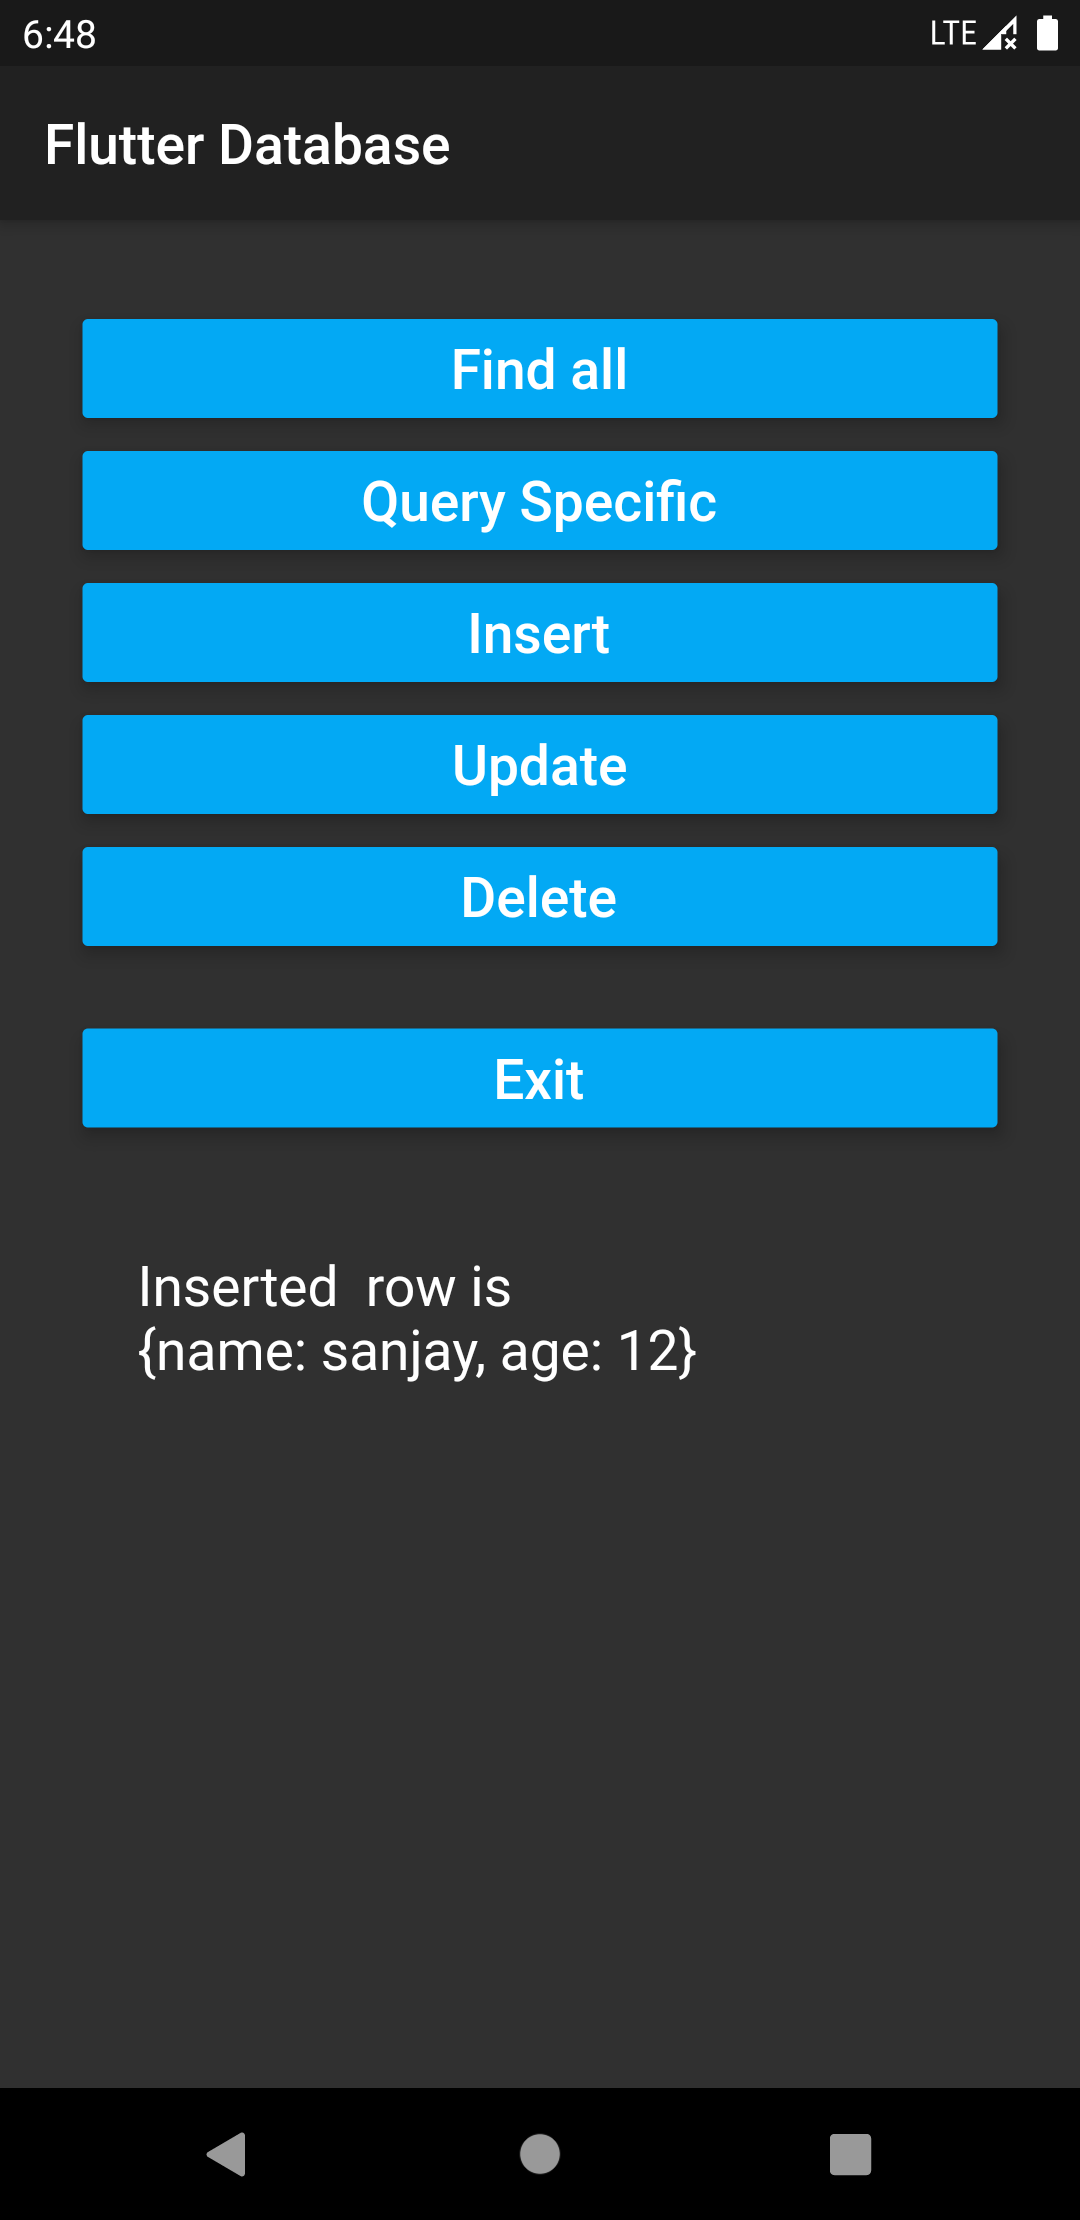
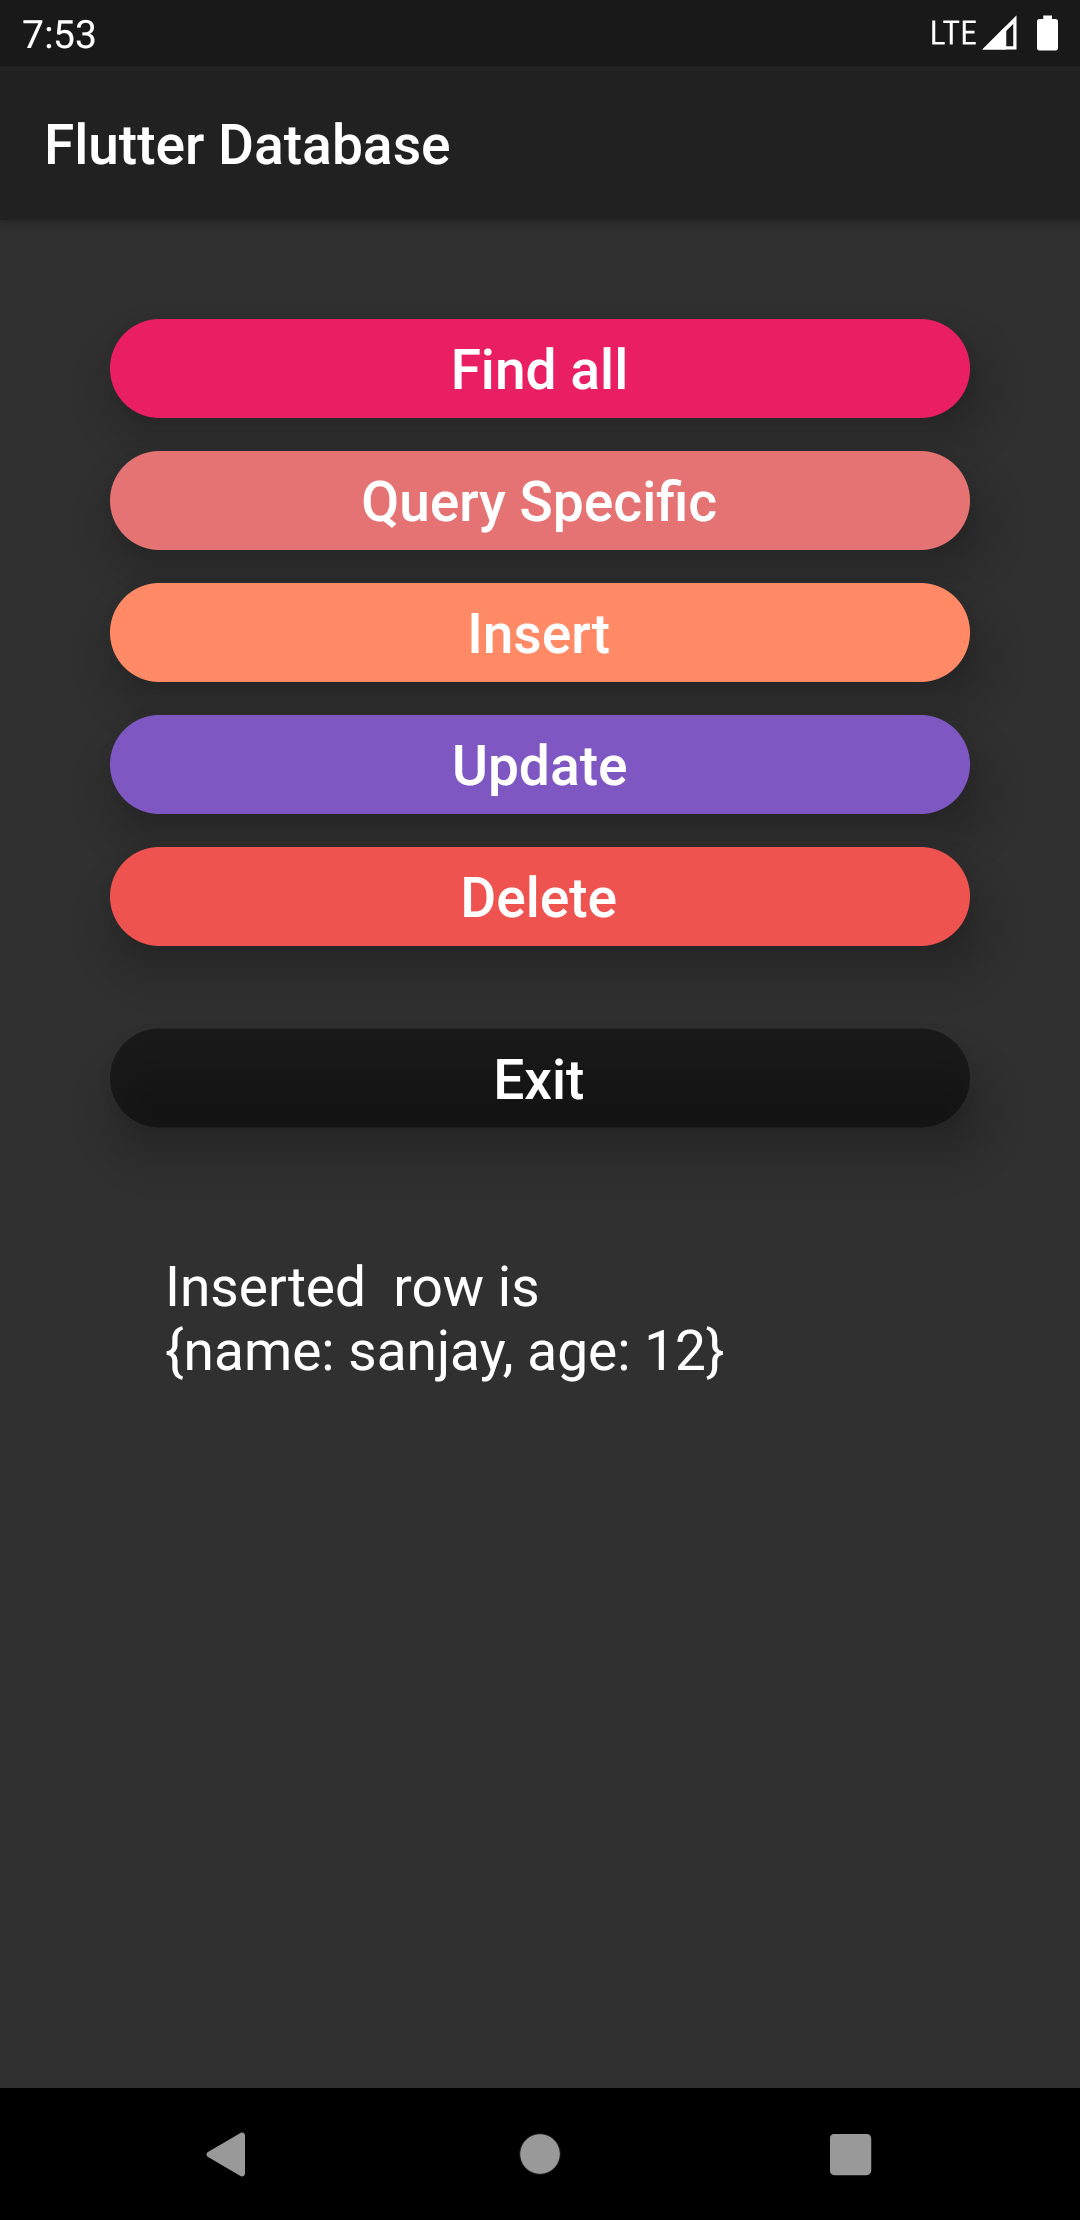
screenshot updated

Changed region(s): [[0.0611, 0.1243, 0.9472, 0.5284], [0.1222, 0.5595, 0.6722, 0.6216], [0.0306, 0.0, 0.0917, 0.0311]]

diff --git a/lib/homepage.dart b/lib/homepage.dart
@@ -77,46 +77,58 @@ class _HomePageState extends State<HomePage> {
         title: Text("Flutter Database"),
       ),
       body: Padding(
-        padding: EdgeInsets.all(30),
+        padding: EdgeInsets.only(top: 30, left: 40, right: 40),
         child: Column(
           crossAxisAlignment: CrossAxisAlignment.stretch,
           mainAxisAlignment: MainAxisAlignment.start,
           children: [
             RaisedButton(
-              color: Colors.lightBlue,
-              elevation: 5.0,
+              shape: RoundedRectangleBorder(
+                  borderRadius: BorderRadius.circular(18.0)),
+              color: Colors.pink,
+              elevation: 15.0,
               onPressed: findAll,
               child: Text("Find all", style: textStyle),
             ),
             RaisedButton(
-              color: Colors.lightBlue,
-              elevation: 5.0,
+              shape: RoundedRectangleBorder(
+                  borderRadius: BorderRadius.circular(18.0)),
+              color: Colors.red[300],
+              elevation: 15.0,
               onPressed: querySpecific,
               child: Text("Query Specific", style: textStyle),
             ),
             RaisedButton(
-              color: Colors.lightBlue,
-              elevation: 5.0,
+              shape: RoundedRectangleBorder(
+                  borderRadius: BorderRadius.circular(18.0)),
+              color: Colors.deepOrange[300],
+              elevation: 15.0,
               onPressed: insertData,
               child: Text("Insert", style: textStyle),
             ),
             RaisedButton(
-              color: Colors.lightBlue,
-              elevation: 5.0,
+              shape: RoundedRectangleBorder(
+                  borderRadius: BorderRadius.circular(18.0)),
+              color: Colors.deepPurple[400],
+              elevation: 15.0,
               onPressed: updateQuery,
               child: Text("Update", style: textStyle),
             ),
             RaisedButton(
-              color: Colors.lightBlue,
-              elevation: 5.0,
+              shape: RoundedRectangleBorder(
+                  borderRadius: BorderRadius.circular(18.0)),
+              color: Colors.red[400],
+              elevation: 15.0,
               onPressed: deleteQuery,
               child: Text("Delete", style: textStyle),
             ),
             Padding(
               padding: const EdgeInsets.only(top: 18.0, bottom: 20),
               child: RaisedButton(
-                color: Colors.lightBlue,
-                elevation: 5.0,
+                shape: RoundedRectangleBorder(
+                    borderRadius: BorderRadius.circular(18.0)),
+                color: Colors.black45,
+                elevation: 15.0,
                 onPressed: () {
                   SystemNavigator.pop();
                 },
